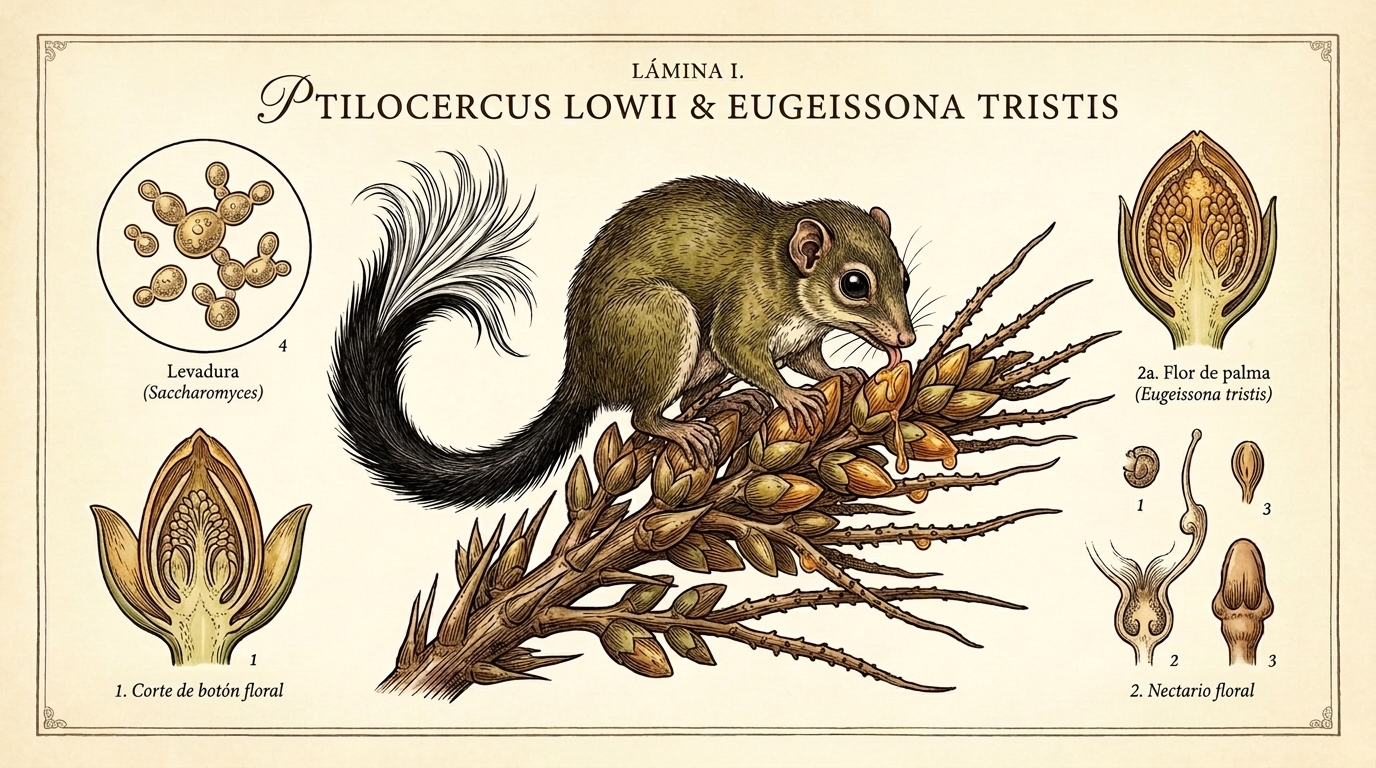
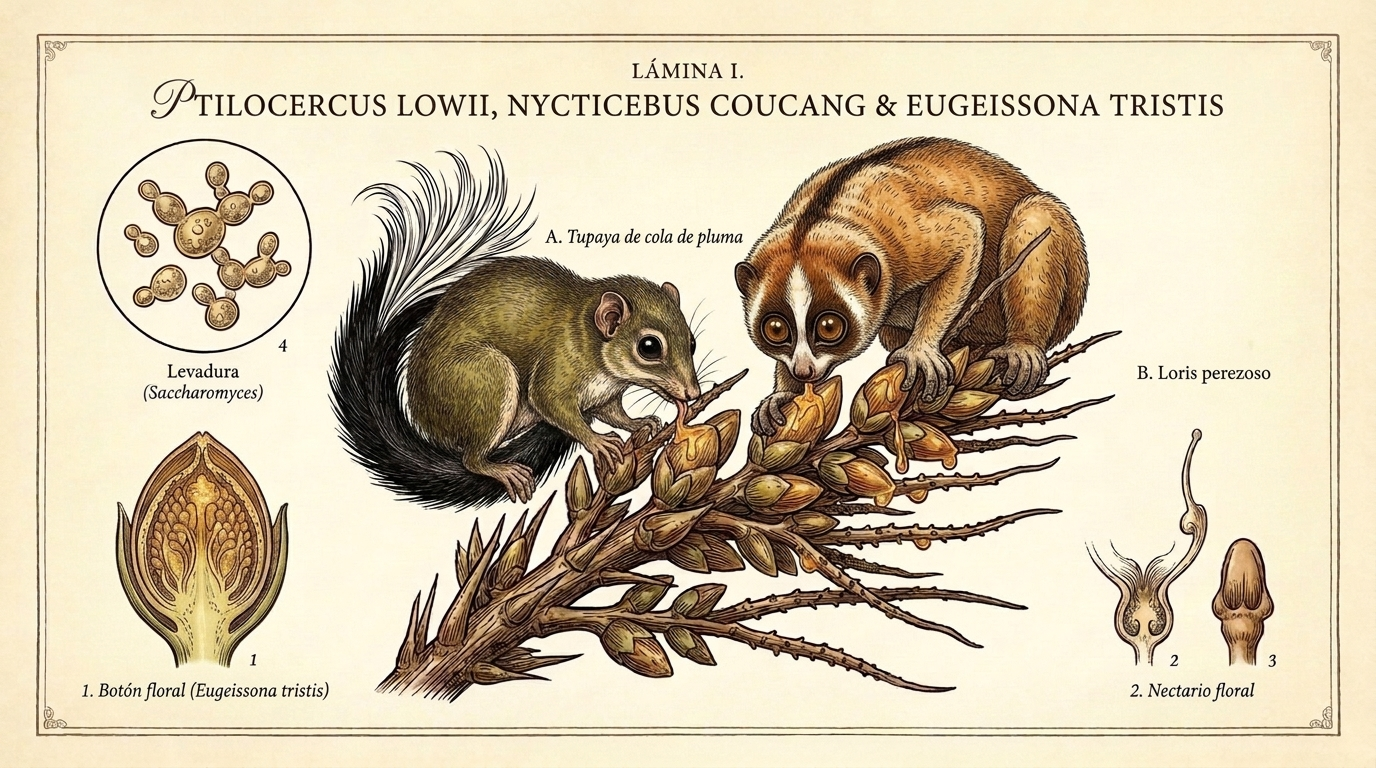
feat(origenes): incluir al loris perezoso (Nycticebus coucang) en la Lámina I y corregir nomenclatura

diff --git a/_site/index.html b/_site/index.html
@@ -284,11 +284,11 @@ window.Quarto = {
 <h3 data-anchor-id="fermentos-en-la-naturaleza-el-mono-borracho">Fermentos en la Naturaleza &amp; el «Mono Borracho»</h3>
 <p><span class="scientific-name"><em>Saccharomyces paradoxus</em>, <em>S. cerevisiae</em> silvestre &amp; enzima <code>ADH4</code></span></p>
 <div class="origin-card-illustration">
-<p><img src="assets/img/origen-tupaya.jpg" class="origin-card-img img-fluid" alt="Lámina I: Ptilocercus lowii libando néctar fermentado de la palma Eugeissona tristis"></p>
+<p><img src="assets/img/origen-tupaya.jpg" class="origin-card-img img-fluid" alt="Lámina I: Ptilocercus lowii y Nycticebus coucang libando néctar fermentado de la palma Eugeissona tristis"></p>
 </div>
 <p>En frutos caídos, savia de robles y néctares florales ocurre una sucesión microbiana donde las especies silvestres de <strong><em>Saccharomyces</em></strong> se imponen gracias al <strong>efecto Crabtree</strong>: producen alcohol incluso en presencia de oxígeno para inhibir bacterias rivales y emiten ésteres volátiles (como el acetato de isoamilo, con aroma a plátano) para atraer insectos vectores y mamíferos frugívoros.</p>
 <div class="card-profile">
-<p><strong>Evidencia en fauna silvestre:</strong> En las selvas de Malasia, la <strong>tupaya de cola de pluma</strong> (<em>Ptilocercus lowii</em>) y el loris lento beben cada noche el néctar fermentado de la palma <em>Eugeissona tristis</em> (hasta <strong>3.8 % ABV</strong>, equivalente a una cerveza <em>Session</em>), inoculado naturalmente por consorcios de levaduras con <em>Saccharomyces</em>, sin mostrar signos de embriaguez.</p>
+<p><strong>Evidencia en fauna silvestre:</strong> En las selvas de Malasia, la <strong>tupaya de cola de pluma</strong> (<em>Ptilocercus lowii</em>) y el <strong>loris perezoso</strong> (<em>Nycticebus coucang</em>) acuden cada noche a libar el néctar fermentado de la palma <em>Eugeissona tristis</em> (hasta <strong>3.8 % ABV</strong>, equivalente a una cerveza <em>Session</em>), inoculado naturalmente por consorcios de levaduras con <em>Saccharomyces</em>, sin mostrar signos de embriaguez.</p>
 </div>
 <div class="card-styles-list">
 <p><strong>Nuestra huella genética (<code>ADH4</code>):</strong></p>
